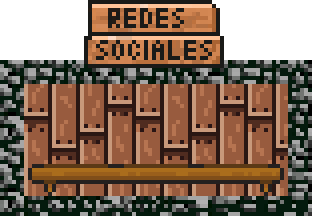
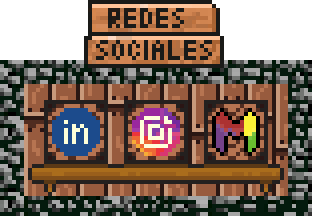
Correcion de README.md

Changed region(s): [[0.6346, 0.4444, 0.8654, 0.7778], [0.375, 0.4444, 0.6058, 0.7778], [0.1154, 0.4444, 0.3462, 0.7778]]

diff --git a/README.md b/README.md
@@ -1,44 +1,8 @@
 <h1>👾 Привет, я Yeswah Gonzalez 👾</h1>
 <h3>Entusiasta de Linux & Ciberseguridad</h3>
 
-<div style="display: flex; align-items: center; gap: 10px; flex-wrap: wrap; ">
-
-  <style>
-  strong {
-      color: #9b59b6;
-  }
-  </style>
-
-  <div style="flex: 1; min-width: 250px;">
-    <p>
-      Soy estudiante de la Universidad Nacional de Colombia, en el pregrado de <strong>Ingeniería de Sistemas</strong>. 
-      En el momento soy un entusiasta de <strong>Linux</strong> y la <strong>Cyberseguridad</strong>, con el objetivo de convertirme 
-      en especialista en las áreas de Risk Assessment y Threat Intelligence, 
-      en las áreas de <strong>Penetration Testing</strong> y <strong>Malware Analysis</strong> respectivamente. 
-      Otros de mis gustos son las <strong>Redes de Comunicación</strong> y las <strong>Matemáticas Discretas</strong>.
-    </p>
-  </div>
-
-  <div style="flex-shrink: 0;">
-    <img src="assets/nombre.gif" alt="Nombre animado" style="max-width: 200px; height: auto;">
-  </div>
-
-</div>
-
-<div style="display: flex; align-items: center; gap: 10px; flex-wrap: wrap; max-width: 1000px; margin: auto; margin-top: -30px; margin-bottom: -70px;">
-
-  <div style="flex: 1; text-align: center; min-width: 300px;">
-    <img src="assets/wrench.png" alt="Foto de perfil" style="max-width: 400px; width: 100%; height: auto; border-radius: 20px;">
-  </div>
-
-  <div style="flex: 2; min-width: 320px;">
-    <blockquote>💜 <strong>Nombre:</strong> Yeswah Gonzalez Tapia</blockquote>
-    <blockquote>📍 <strong>Ubicación:</strong> Bogotá, Colombia</blockquote>
-    <blockquote>👨💻 <strong>Profesión:</strong> Ingeniero de Sistemas y Computación</blockquote>
-    <blockquote>🌐 <strong>Intereses:</strong> Linux, Cyberseguridad, Redes de Comunicación, Matemáticas Discretas</blockquote>
-  </div>
-
-</div>
+![interest](assets/interests.gif)
+![image](assets/about_me.png)
 
 <h2>Proyectos</h2>
 
@@ -90,26 +54,10 @@
 
 
 <!-- <div style="text-align: center;"> -->
-<div style="display: flex; align-items: flex-start; gap: 20px;">
-  <div style="position: relative; display: inline-block;">
-    <img src="assets/redes_sociales.png" alt="estante">
-    <a href="mailto:ingw15hy@gmail.com" target="_blank">
-      <img src="assets/gmail.png" alt="gmail" style="position: absolute; top: 100px; left: 44px;">
-    </a>
-    <a href="https://www.instagram.com/" target="_blank">
-      <img src="assets/instagram.png" alt="instagram" style="position: absolute; top: 100px; left: 124px;">
-    </a>
-    <a href="https://www.linkedin.com/in/yeswah-gonzalez-96b0a9383/" target="_blank">
-      <img src="assets/linkeding.png" alt="linkeding" style="position: absolute; top: 100px; left: 204px;">
-    </a>
-  </div>
+<p align="center">
+  <a href="https://www.linkedin.com/in/yeswah-gonzalez-96b0a9383/"><img src="assets/part1.png" width="100px"/></a><a href="https://www.instagram.com/"><img src="assets/part2.png" width="100px"/></a><a href="mailto:ingw15hy@gmail.com"><img src="assets/part3.png" width="100px"/></a>&nbsp&nbsp&nbsp&nbsp<img src="https://github-readme-stats.vercel.app/api?username=w15hy&theme=tokyonight&show_icons=true&hide_border=true&count_private=true"></img>
+</p>
 
-  <div style="margin-top: 30px;">
-    <img src="https://github-readme-stats.vercel.app/api?username=w15hy&theme=tokyonight&show_icons=true&hide_border=true&count_private=true" alt="w15hy's Stats">
-  </div>
-
-</div>
-<!-- </div> -->
 
 <!--
 **w15hy/w15hy** is a ✨ _special_ ✨ repository because its `README.md` (this file) appears on your GitHub profile.
